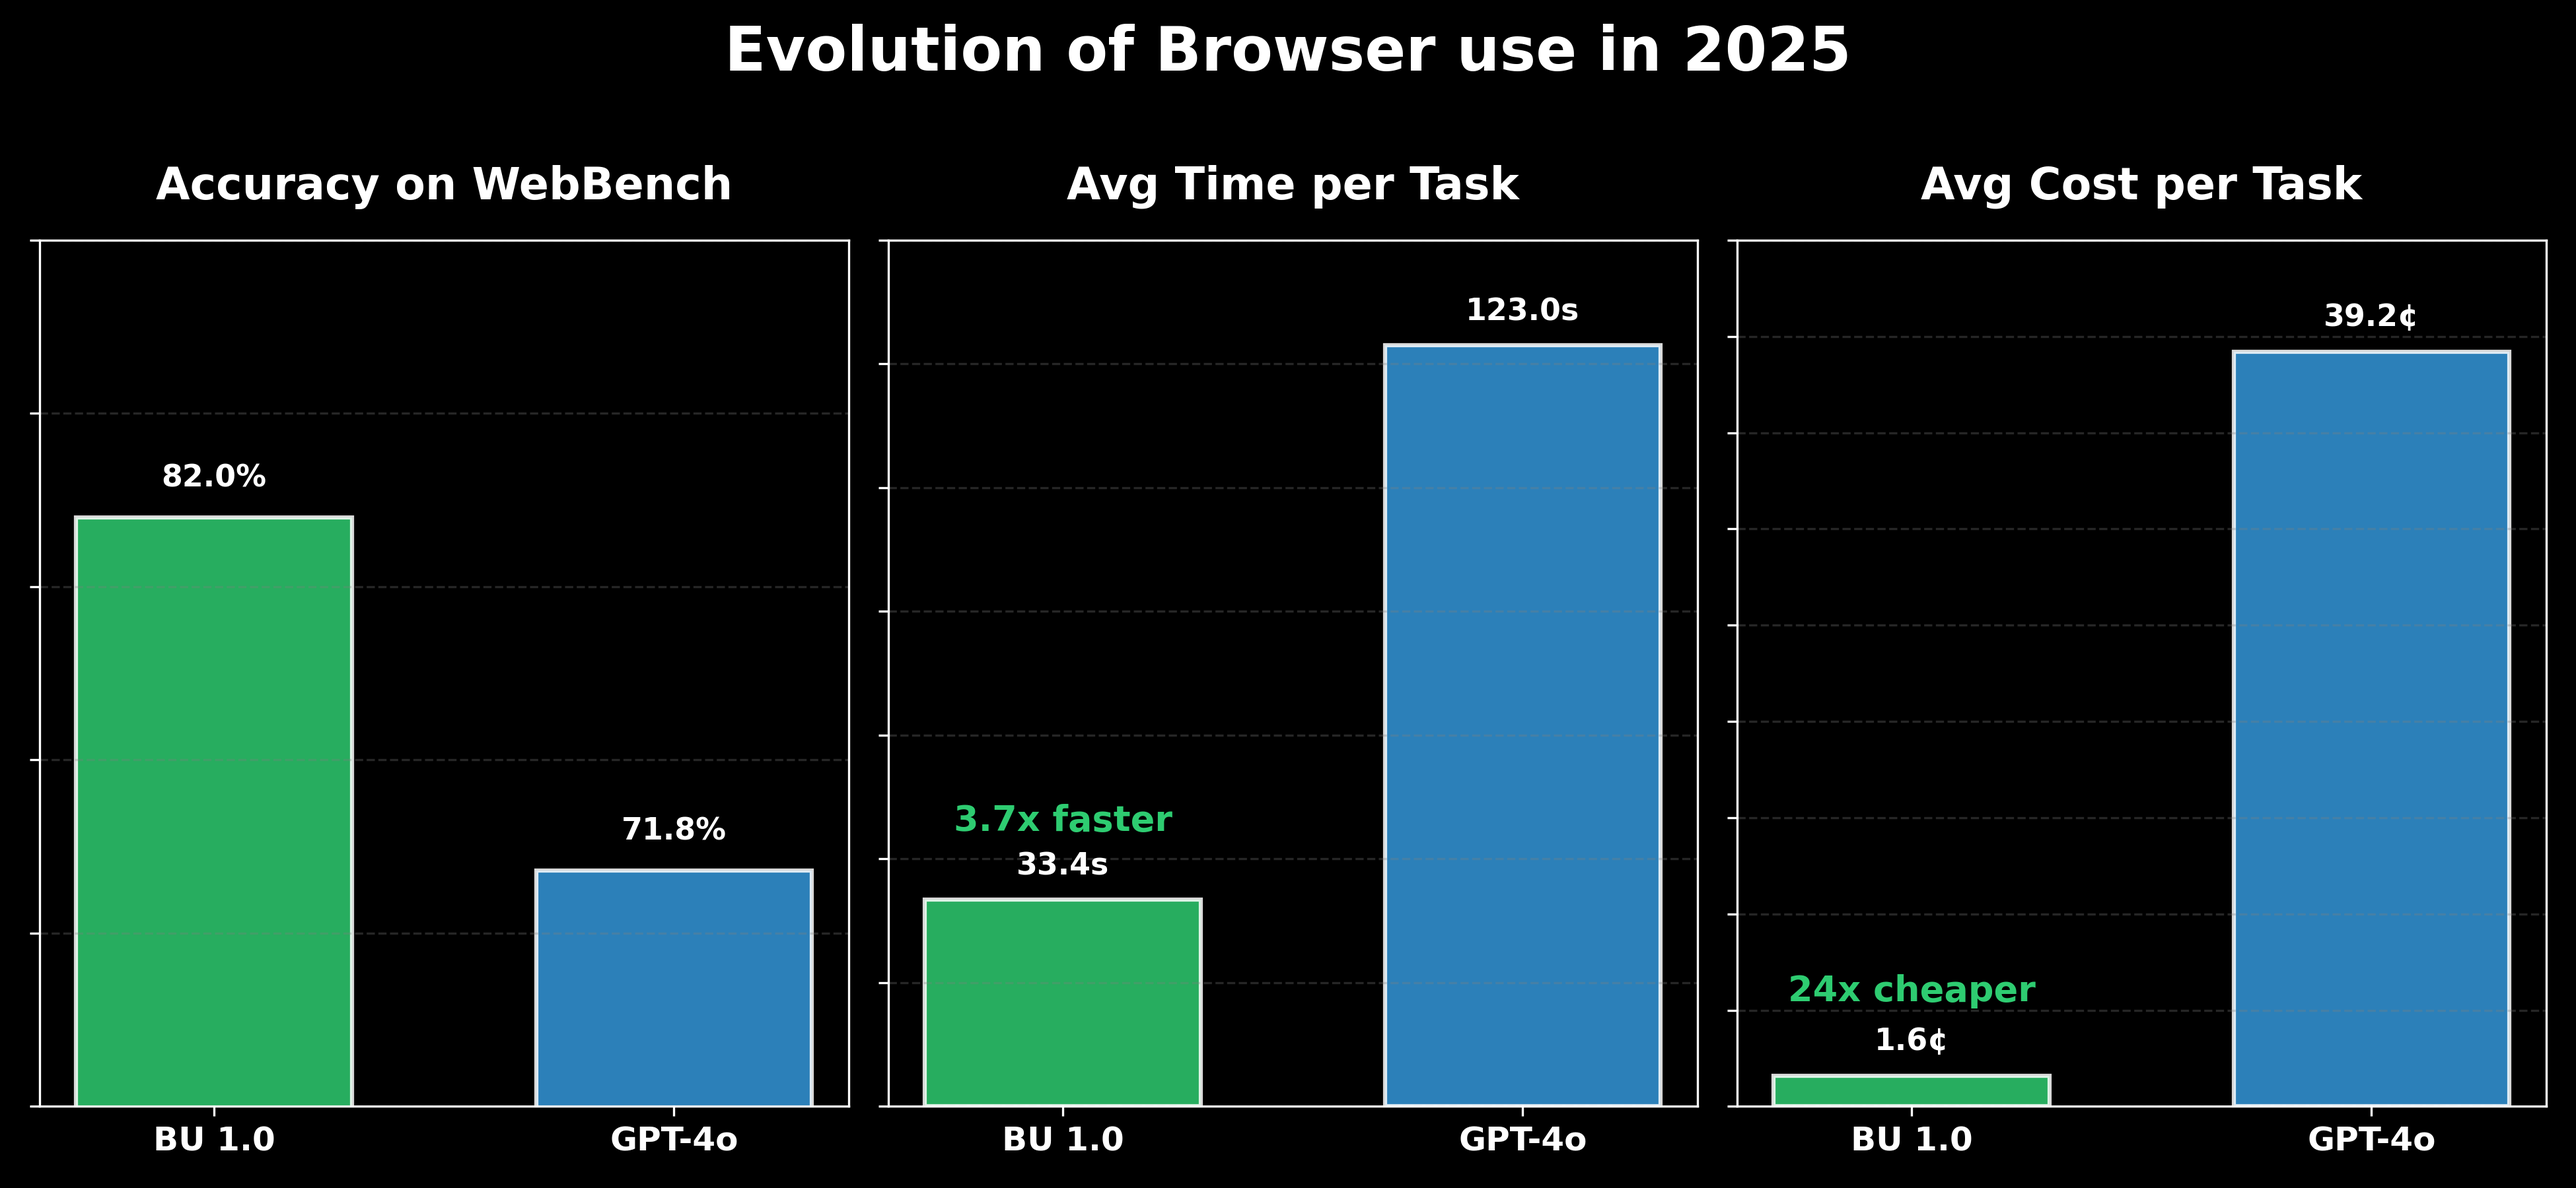
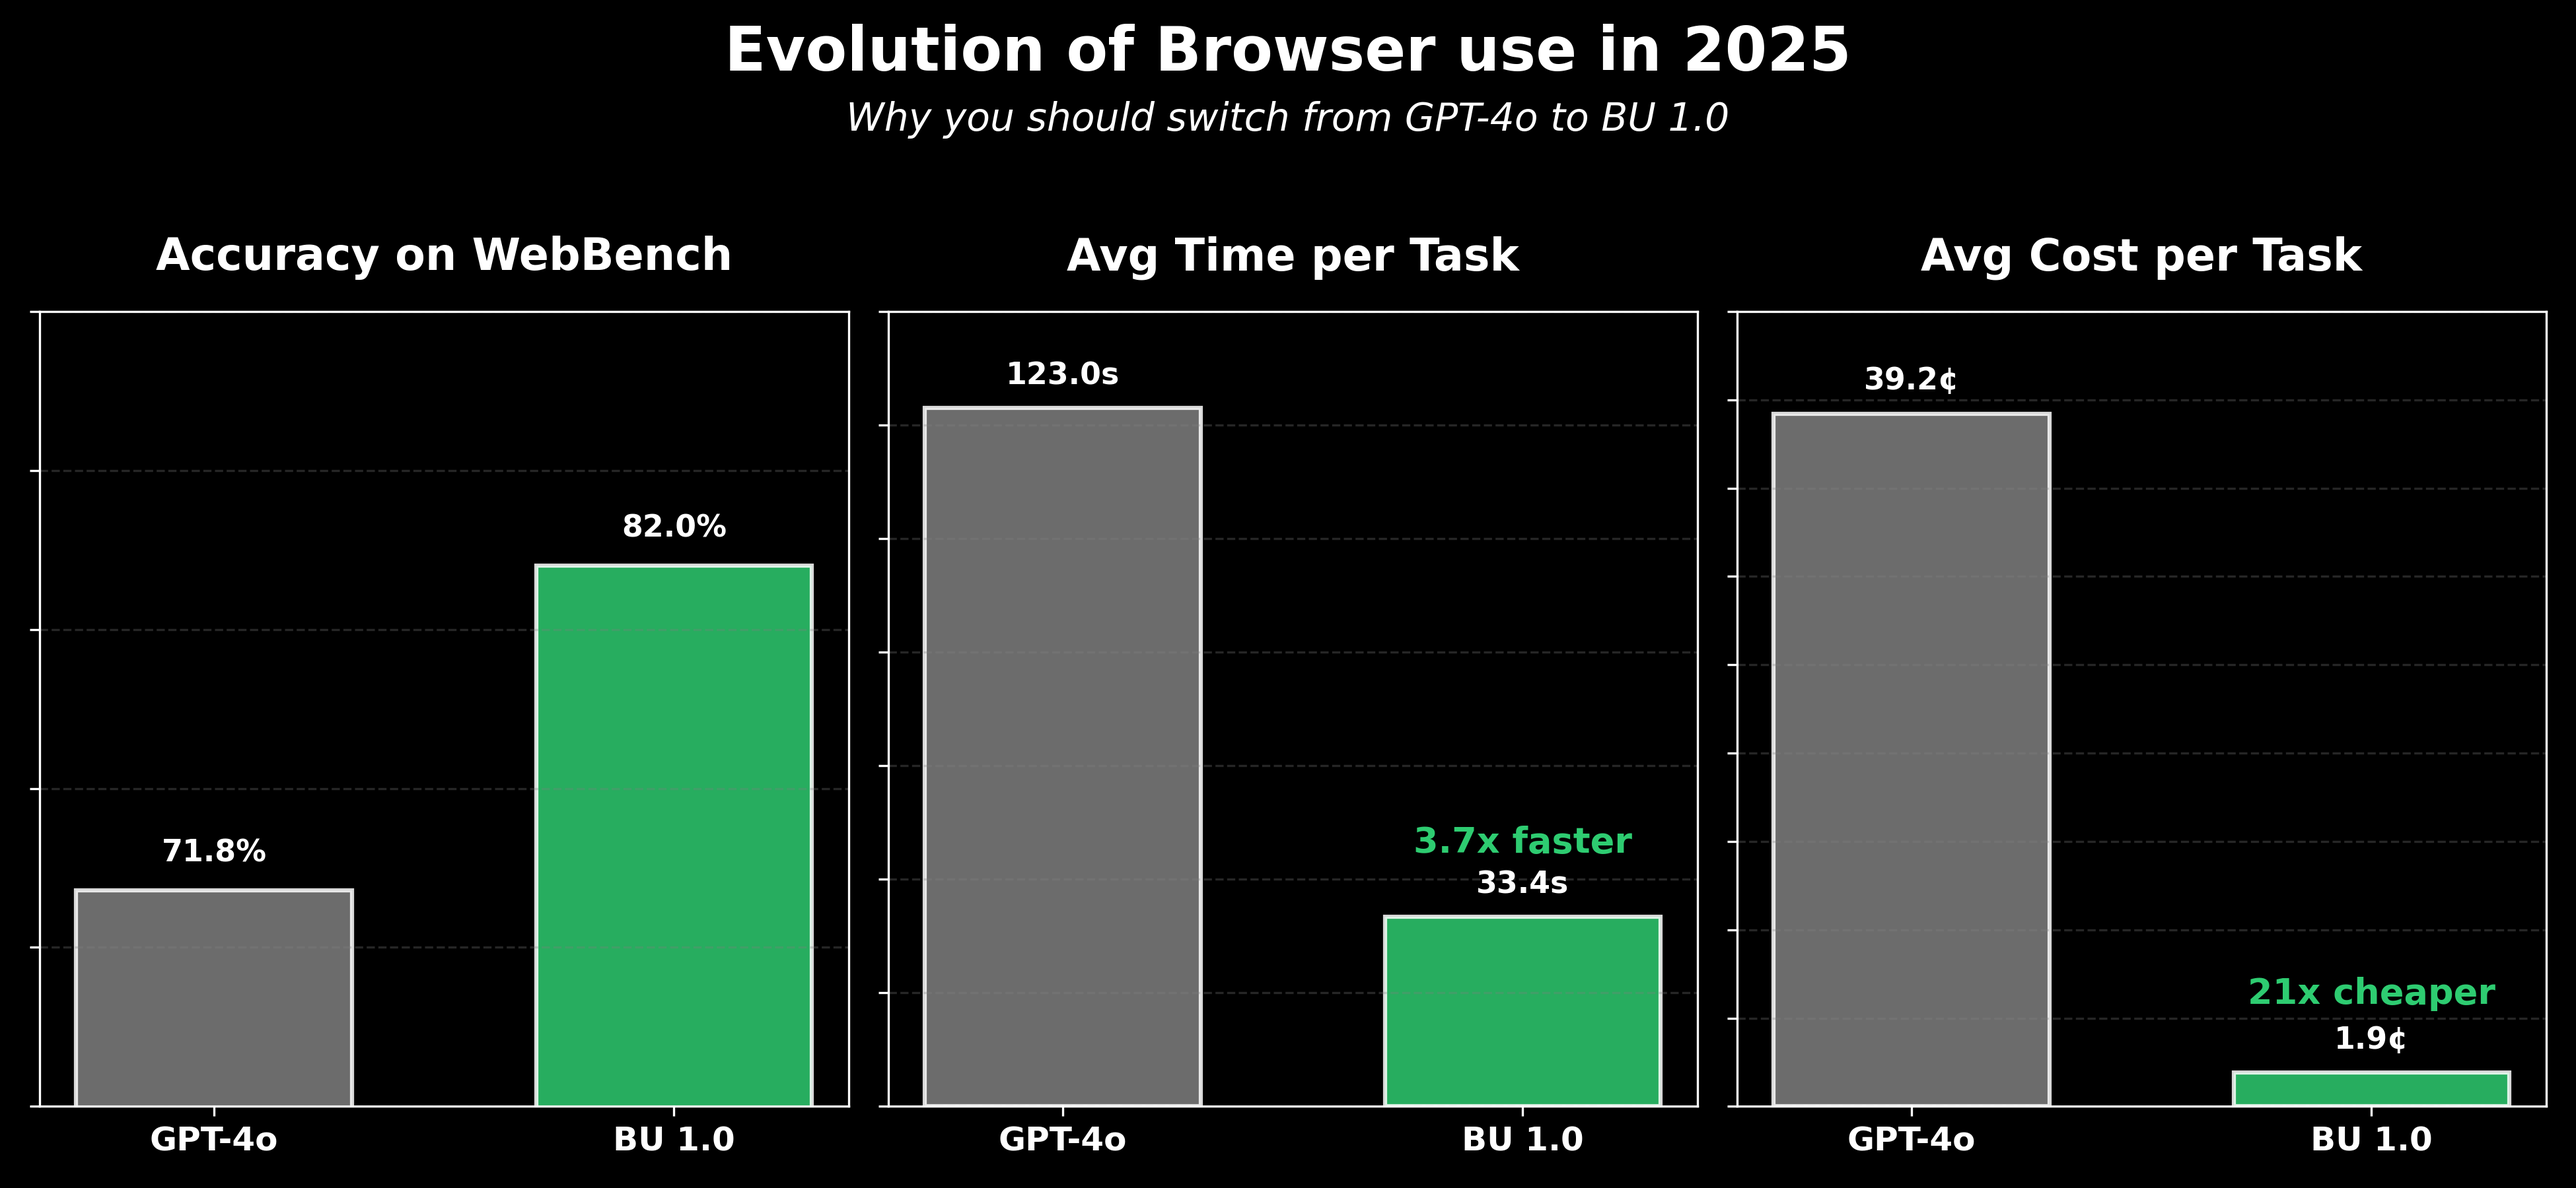
Update cost

diff --git a/plot_comparison_bar.py b/plot_comparison_bar.py
@@ -3,7 +3,7 @@ import numpy as np
 
 # Data for BU 1.0 and GPT-4o
 data = {
-	'BU 1.0': {'time_seconds': 33.4, 'score': 82.0, 'cost_per_task': 1.6},
+	'BU 1.0': {'time_seconds': 33.4, 'score': 82.0, 'cost_per_task': 1.9},
 	'GPT-4o': {'time_seconds': 123, 'score': 71.8, 'cost_per_task': 39.2},
 }
 
@@ -14,13 +14,13 @@ time_per_task = [data[m]['time_seconds'] for m in models]
 cost_per_task = [data[m]['cost_per_task'] for m in models]
 
 # Calculate ratios (relative to GPT-4o as baseline)
-accuracy_ratio = accuracy[0] / accuracy[1]  # higher is better
-time_speedup = time_per_task[1] / time_per_task[0]  # how much faster
-cost_savings = cost_per_task[1] / cost_per_task[0]  # how much cheaper
+accuracy_ratio = accuracy[1] / accuracy[0]  # BU vs GPT-4o
+time_speedup = time_per_task[0] / time_per_task[1]  # how much faster
+cost_savings = cost_per_task[0] / cost_per_task[1]  # how much cheaper
 
 # Colors
 bu_color = '#2ecc71'  # bright green
-gpt_color = '#3498db'  # bright blue
+gpt_color = '#808080'  # grey
 
 # Create figure with dark background
 fig, axes = plt.subplots(1, 3, figsize=(13, 6))
@@ -33,7 +33,7 @@ x = np.arange(2)
 # === PLOT 1: Accuracy ===
 ax1 = axes[0]
 ax1.set_facecolor('black')
-bars1 = ax1.bar(x, accuracy, bar_width, color=[bu_color, gpt_color], edgecolor='white', linewidth=1.5, alpha=0.85)
+bars1 = ax1.bar(x, accuracy, bar_width, color=[gpt_color, bu_color], edgecolor='white', linewidth=1.5, alpha=0.85)
 ax1.set_title('Accuracy on WebBench', fontsize=16, color='white', fontweight='bold', pad=15)
 ax1.set_xticks(x)
 ax1.set_xticklabels(models, fontsize=12, color='white', fontweight='bold')
@@ -58,7 +58,7 @@ for i, (bar, val) in enumerate(zip(bars1, accuracy)):
 # === PLOT 2: Time per Task (Speed) ===
 ax2 = axes[1]
 ax2.set_facecolor('black')
-bars2 = ax2.bar(x, time_per_task, bar_width, color=[bu_color, gpt_color], edgecolor='white', linewidth=1.5, alpha=0.85)
+bars2 = ax2.bar(x, time_per_task, bar_width, color=[gpt_color, bu_color], edgecolor='white', linewidth=1.5, alpha=0.85)
 ax2.set_title('Avg Time per Task', fontsize=16, color='white', fontweight='bold', pad=15)
 ax2.set_xticks(x)
 ax2.set_xticklabels(models, fontsize=12, color='white', fontweight='bold')
@@ -79,7 +79,7 @@ for i, (bar, val) in enumerate(zip(bars2, time_per_task)):
 		fontsize=11,
 		fontweight='bold',
 	)
-	if i == 0:  # BU 1.0
+	if i == 1:  # BU 1.0
 		ax2.text(
 			bar.get_x() + bar.get_width() / 2,
 			height + 10,
@@ -94,7 +94,7 @@ for i, (bar, val) in enumerate(zip(bars2, time_per_task)):
 # === PLOT 3: Cost per Task ===
 ax3 = axes[2]
 ax3.set_facecolor('black')
-bars3 = ax3.bar(x, cost_per_task, bar_width, color=[bu_color, gpt_color], edgecolor='white', linewidth=1.5, alpha=0.85)
+bars3 = ax3.bar(x, cost_per_task, bar_width, color=[gpt_color, bu_color], edgecolor='white', linewidth=1.5, alpha=0.85)
 ax3.set_title('Avg Cost per Task', fontsize=16, color='white', fontweight='bold', pad=15)
 ax3.set_xticks(x)
 ax3.set_xticklabels(models, fontsize=12, color='white', fontweight='bold')
@@ -115,7 +115,7 @@ for i, (bar, val) in enumerate(zip(bars3, cost_per_task)):
 		fontsize=11,
 		fontweight='bold',
 	)
-	if i == 0:  # BU 1.0
+	if i == 1:  # BU 1.0
 		ax3.text(
 			bar.get_x() + bar.get_width() / 2,
 			height + 3.5,
@@ -136,10 +136,11 @@ for ax in axes:
 	for label in ax.get_yticklabels():
 		label.set_fontweight('bold')
 
-# Add main title
+# Add main title and subtitle
 fig.suptitle('Evolution of Browser use in 2025', fontsize=22, color='white', fontweight='bold', y=0.98)
+fig.text(0.5, 0.89, 'Why you should switch from GPT-4o to BU 1.0', ha='center', fontsize=14, color='white', style='italic')
 
-plt.tight_layout(rect=(0, 0, 1, 0.96))
+plt.tight_layout(rect=(0, 0, 1, 0.90))
 plt.savefig('webbench_bu_vs_gpt4o.png', dpi=300, facecolor='black')
 plt.close()
 

diff --git a/plot.py b/plot.py
@@ -7,39 +7,10 @@ data_raw = {
 	'GPT-5-mini': {'time_seconds': 164, 'score': 79.0, 'company': 'OpenAI', 'cost_per_task': 4.9},
 	'Claude Sonnet 4.5': {'time_seconds': 186, 'score': 86.4, 'company': 'Anthropic', 'cost_per_task': 39.2},
 	'GPT-4.1-mini': {'time_seconds': 105, 'score': 72.8, 'company': 'OpenAI', 'cost_per_task': 4.8},
-	'BU 1.0': {'time_seconds': 33.4, 'score': 82.0, 'company': 'Browser-Use', 'cost_per_task': 1.6},
+	'BU 1.0': {'time_seconds': 33.4, 'score': 82.0, 'company': 'Browser-Use', 'cost_per_task': 1.9},
 	'GPT-4o': {'time_seconds': 123, 'score': 71.8, 'company': 'OpenAI', 'cost_per_task': 39.2},
 	'Gemini-Flash-Latest': {'time_seconds': 97, 'score': 80.2, 'company': 'Google', 'cost_per_task': 5.5},
 }
-
-# bu local 15,495,235 total tokens
-# 14,991,649 input * 0.5 = 7,495,824.5
-# 503,586 output * 3 = 1,510,758
-# 7,495,824.5 + 1,510,758 = 9,006,582.5
-# 9,006,582.5 / 198 = 45,487.7899
-
-# bu local option 2 15,495,235 total tokens
-# 14,991,649 input  - 5,200,000 cached = 9,791,649 input
-#
-# 9,791,649 * 0.2 = 1,958,329.8
-# 5200000 * 0.02 = 104,000
-# 1,958,329.8 + 104,000 = 2,062,329.8
-# 503,586 output * 2 = 1,007,172
-
-# 2,062,329.8 + 1,007,172 = 3,069,501.8
-# 3,069,501.8 / 198 = 15,497.483838383838
-
-
-# 15.000.000 / 198 = 75,757.57575757576
-# 75,757.57575757576 / 13 = 5,827.505827505827
-# 2000 * 200 = 400,000
-# 400,000 * 13 = 5,200,000
-
-
-# gemini-latest flash
-# 23,747,279
-# 21,330,751 input
-# 2,416,528 output
 
 
 # Convert to tasks per hour (speed)

diff --git a/plot_cost.py b/plot_cost.py
@@ -7,7 +7,7 @@ data_raw = {
 	'GPT-5-mini': {'time_seconds': 164, 'score': 79.0, 'company': 'OpenAI', 'cost_per_task': 4.9},
 	'Claude Sonnet 4.5': {'time_seconds': 186, 'score': 86.4, 'company': 'Anthropic', 'cost_per_task': 39.2},
 	'GPT-4.1-mini': {'time_seconds': 105, 'score': 72.8, 'company': 'OpenAI', 'cost_per_task': 4.8},
-	'BU 1.0': {'time_seconds': 33.4, 'score': 82.0, 'company': 'Browser-Use', 'cost_per_task': 1.6},
+	'BU 1.0': {'time_seconds': 33.4, 'score': 82.0, 'company': 'Browser-Use', 'cost_per_task': 1.9},
 	'GPT-4o': {'time_seconds': 123, 'score': 71.8, 'company': 'OpenAI', 'cost_per_task': 39.2},
 	'Gemini-Flash-Latest': {'time_seconds': 97, 'score': 80.2, 'company': 'Google', 'cost_per_task': 5.5},
 }
